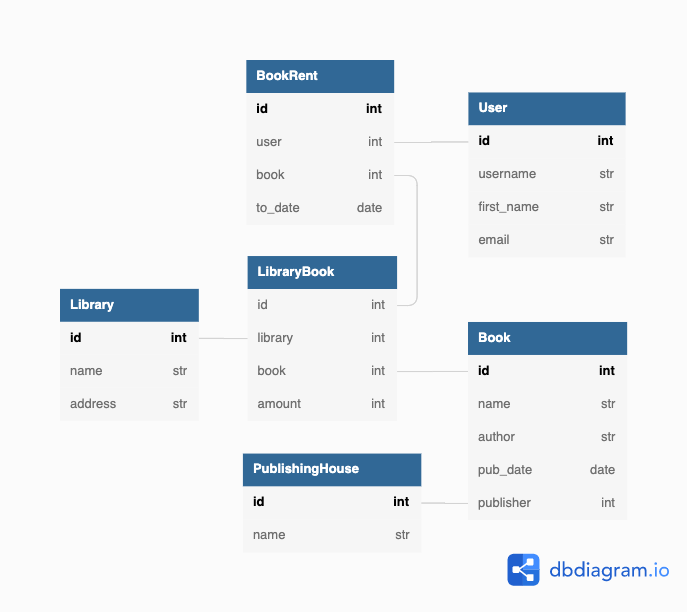
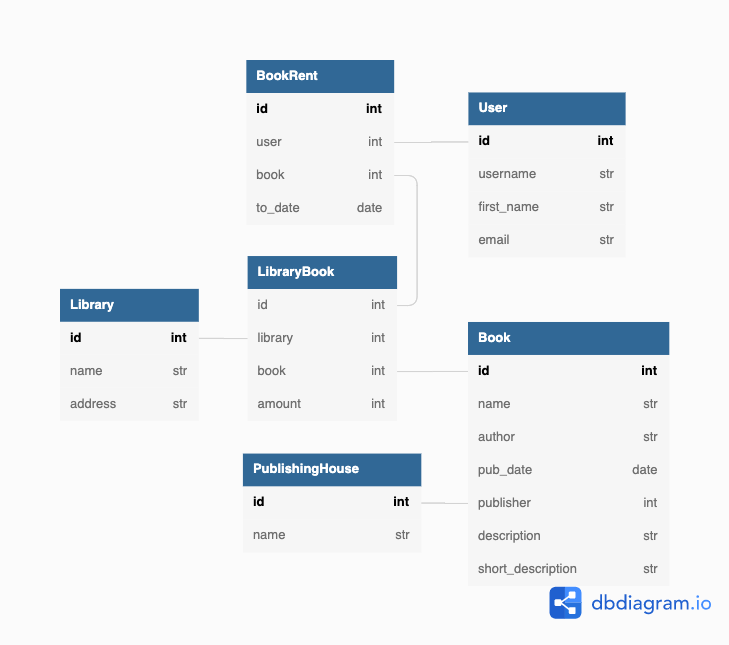
better diagram

diff --git a/books/templates/books/book_card.html b/books/templates/books/book_card.html
@@ -1,7 +1,9 @@
 <div class="card bg-dark mt-3">
   {% include 'books/book_card_header.html' %}
   <div class="card-body">
-    <p class="card-text">With supporting text below as a natural lead-in to additional content.</p>
+    {% if book.short_description %}
+      <p class="card-text">{{ book.short_description }}</p>
+    {% endif %}
     {% block book_card_footer %}
       <a href="{{ book.get_absolute_url }}" class="btn btn-primary bg-custom-gradient border-0">More</a>
     {% endblock book_card_footer %}

diff --git a/templates/nav.html b/templates/nav.html
@@ -4,7 +4,7 @@
     <ul class="navbar-nav">
       {% if user.is_authenticated %}
         <li class="nav-item">
-          <a class="nav-link" href={% url 'users:profile' pk=user.id %}>{{ user.username }}</a>
+          <a class="nav-link" href={% url 'users:profile' %}>{{ user.username }}</a>
         </li>
         <li class="nav-item">
           <a class="nav-link text-danger" href={% url 'users:logout' %}>Logout</a>

diff --git a/books/templates/books/publisher.html b/books/templates/books/publisher.html
@@ -5,5 +5,7 @@
 {% endblock aside_header %}
 
 {% block aside_content %}
-  test
+  <div>
+    {{ publishing_house.description }}
+  </div>
 {% endblock aside_content %}

diff --git a/books/models.py b/books/models.py
@@ -9,6 +9,10 @@ class PublishsingHouse(models.Model):
         db_table = 'publishing_houses'
 
     name = models.CharField('publising house name', max_length=255)
+    description = models.TextField(
+        'publishing house description',
+        max_length=200
+    )
 
     def __str__(self) -> str:
         return self.name
@@ -21,6 +25,9 @@ class Book(models.Model):
         db_table = 'books'
 
     name = models.CharField('book name', max_length=255)
+    short_description = models.TextField(
+        'book short description', max_length=200,
+    )
     description = models.TextField('book description')
     pub_date = models.DateField('Publishing Date')
     author = models.TextField('author`s name')

diff --git a/libraries/views.py b/libraries/views.py
@@ -1,12 +1,14 @@
 from django.shortcuts import get_object_or_404, redirect
 from django.urls import reverse, reverse_lazy
 from django.views.generic import DeleteView, DetailView
-
+from django.utils.decorators import method_decorator
+from django.contrib.auth.decorators import login_required
 from libraries.forms import RentForm
 
 from .models import BookRent, LibraryBook
 
 
+@method_decorator(login_required, 'dispatch')
 class LibraryBookDetail(DetailView):
     queryset = LibraryBook.objects.select_related()
     context_object_name = 'library_book'

diff --git a/users/views.py b/users/views.py
@@ -1,10 +1,12 @@
 from django.contrib.auth import get_user_model
-from django.shortcuts import get_object_or_404
+from django.contrib.auth.decorators import login_required
+from django.utils.decorators import method_decorator
 from django.views.generic import ListView
 
 User = get_user_model()
 
 
+@method_decorator(login_required, 'dispatch')
 class ProfileView(ListView):
     context_object_name = 'books'
     template_name = 'users/profile.html'

diff --git a/users/urls.py b/users/urls.py
@@ -8,7 +8,7 @@ from .views import ProfileView
 app_name = 'users'
 
 urlpatterns = [
-    path('profile/<int:pk>/', ProfileView.as_view(), name='profile'),
+    path('profile/', ProfileView.as_view(), name='profile'),
     path(
         'login/',
         LoginView.as_view(template_name='users/login.html'),

diff --git a/geeklib/settings.py b/geeklib/settings.py
@@ -98,4 +98,5 @@ STATICFILES_DIRS = [
 DEFAULT_AUTO_FIELD = 'django.db.models.BigAutoField'
 
 LOGIN_REDIRECT_URL = 'books:books-list'
+LOGIN_URL = 'users:login'
 LOGOUT_REDIRECT_URL = 'books:books-list'
